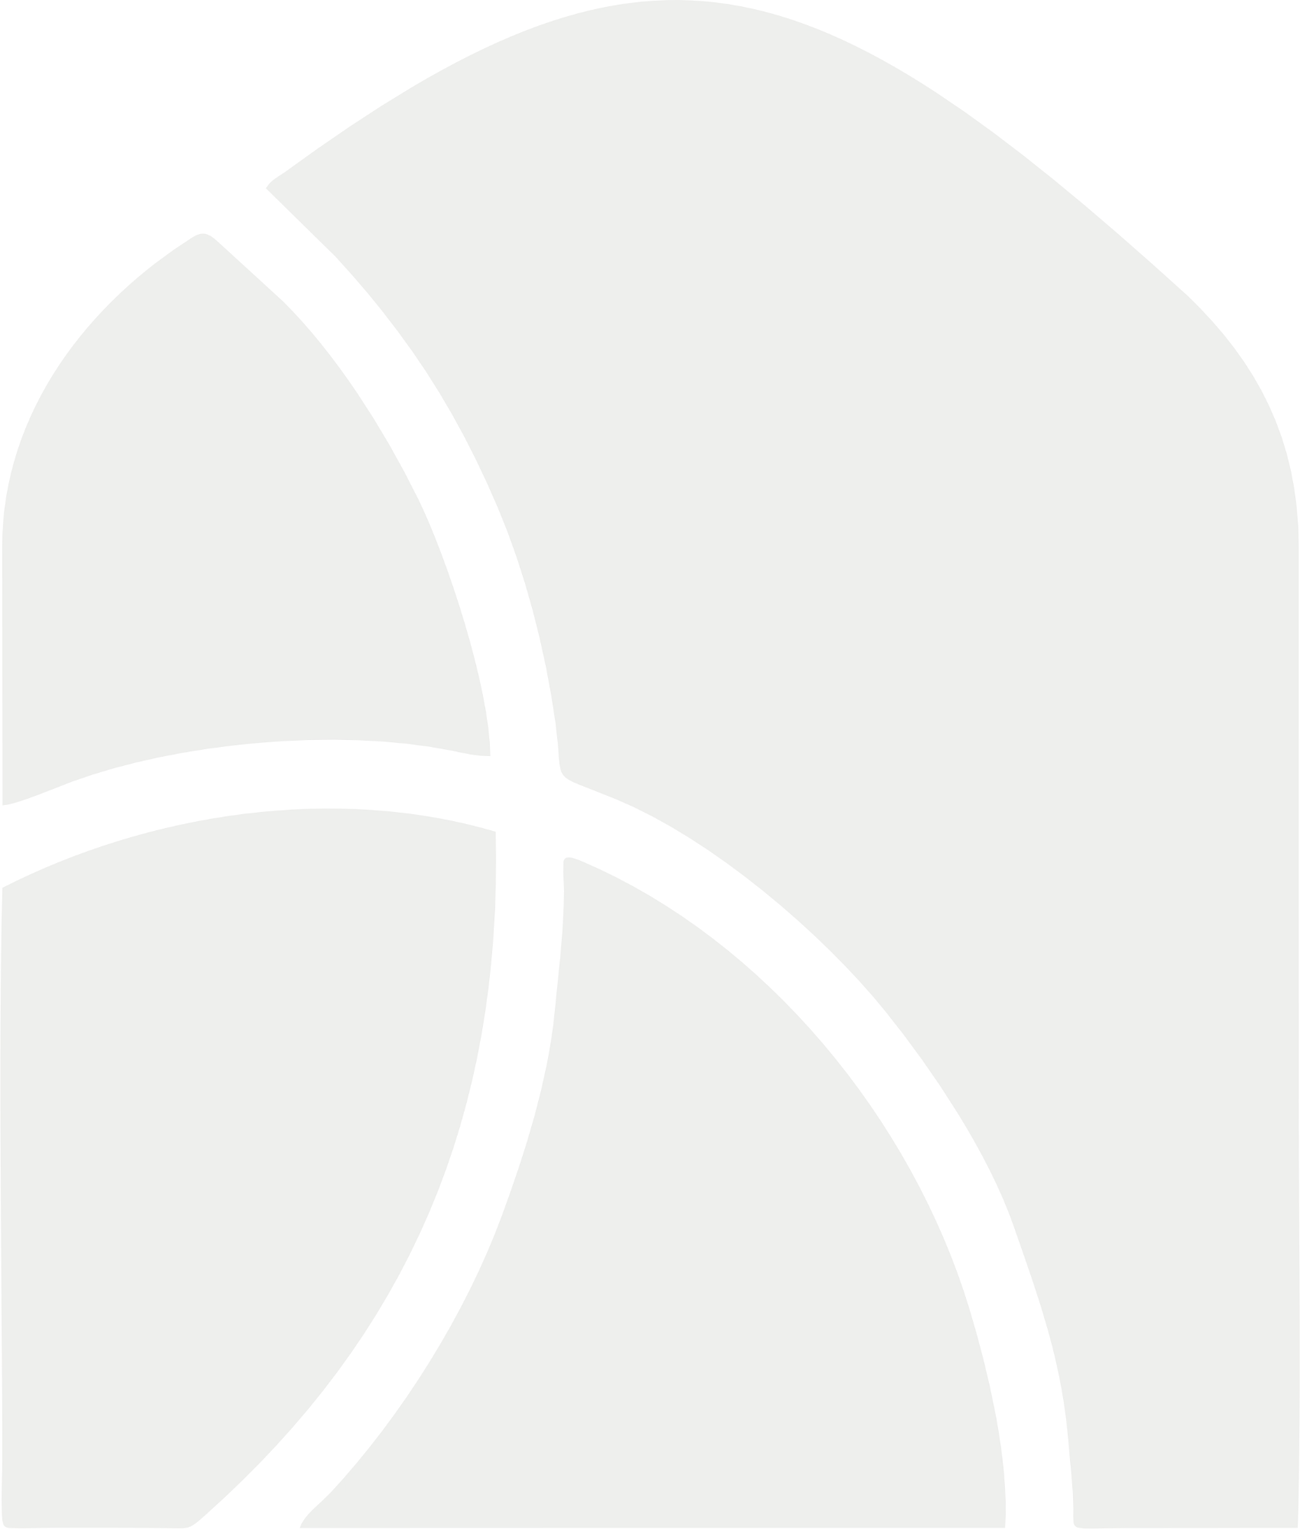
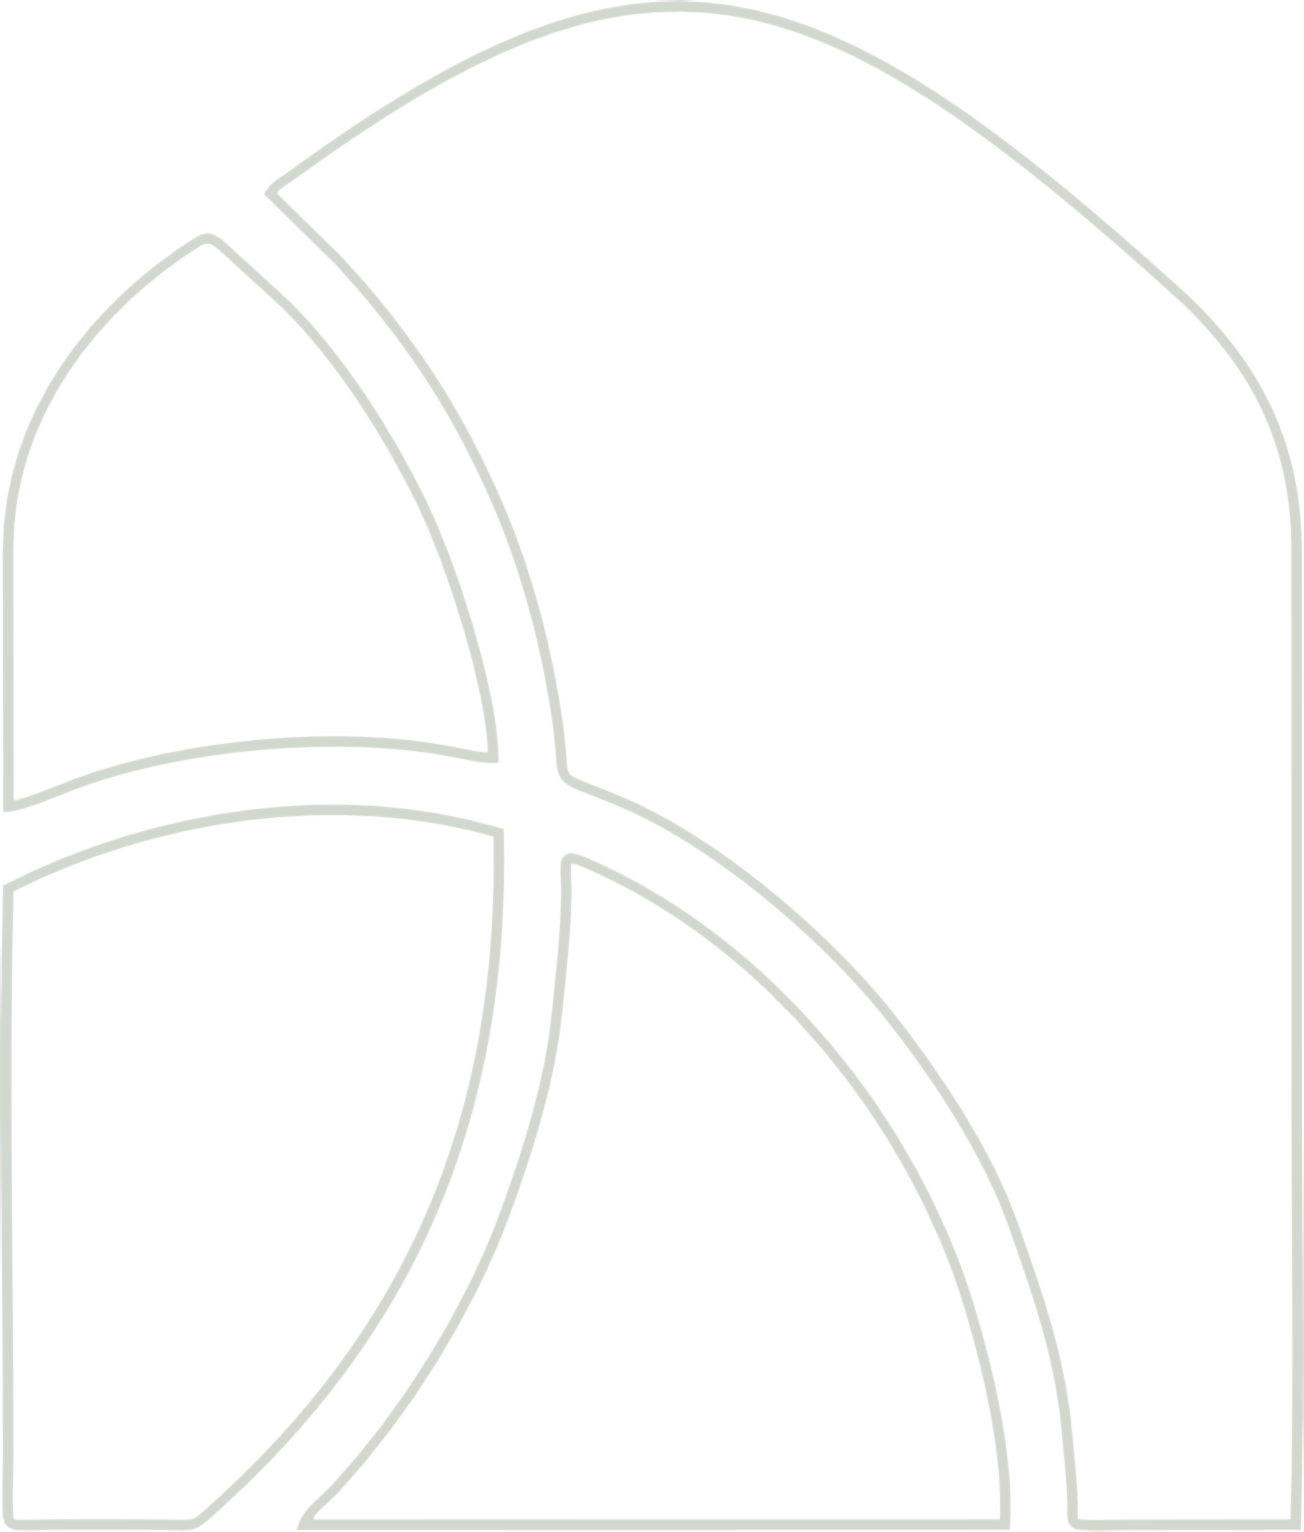
v.32: marca d'água com o isologo vazado (contorno fino e transparente)
Claude-Session: https://claude.ai/code/session_01QGTHKpdf8g3ZjVThXuW4Rz

diff --git a/js/app.js b/js/app.js
@@ -1,22 +1,22 @@
 // =====================================================================
 //  Aplicativo: login, menu lateral e rotas
 // =====================================================================
-import { iniciar, carregarTudo, entrar, sair, modoDemo, demoVazio, zerarDemo, store, tabelasFaltando } from './dados.js?v=202611221707';
-import { icone, h, aviso, diasAte } from './util.js?v=202611221707';
-import { nav } from './nav.js?v=202611221707';
-import { situacaoRecebimento } from './negocio.js?v=202611221707';
-import { VERSAO, DATA_VERSAO } from './versao.js?v=202611221707';
-import { abrirBackup, diasSemBackup } from './backup.js?v=202611221707';
-import { criarDadosExemplo } from './exemplo.js?v=202611221707';
+import { iniciar, carregarTudo, entrar, sair, modoDemo, demoVazio, zerarDemo, store, tabelasFaltando } from './dados.js?v=202611221710';
+import { icone, h, aviso, diasAte } from './util.js?v=202611221710';
+import { nav } from './nav.js?v=202611221710';
+import { situacaoRecebimento } from './negocio.js?v=202611221710';
+import { VERSAO, DATA_VERSAO } from './versao.js?v=202611221710';
+import { abrirBackup, diasSemBackup } from './backup.js?v=202611221710';
+import { criarDadosExemplo } from './exemplo.js?v=202611221710';
 
-import * as painel from './telas/painel.js?v=202611221707';
-import * as projetos from './telas/projetos.js?v=202611221707';
-import * as projeto from './telas/projeto.js?v=202611221707';
-import * as clientes from './telas/clientes.js?v=202611221707';
-import * as financeiro from './telas/financeiro.js?v=202611221707';
-import * as orcamentos from './telas/orcamentos.js?v=202611221707';
-import * as tarefas from './telas/tarefas.js?v=202611221707';
-import * as parceiros from './telas/parceiros.js?v=202611221707';
+import * as painel from './telas/painel.js?v=202611221710';
+import * as projetos from './telas/projetos.js?v=202611221710';
+import * as projeto from './telas/projeto.js?v=202611221710';
+import * as clientes from './telas/clientes.js?v=202611221710';
+import * as financeiro from './telas/financeiro.js?v=202611221710';
+import * as orcamentos from './telas/orcamentos.js?v=202611221710';
+import * as tarefas from './telas/tarefas.js?v=202611221710';
+import * as parceiros from './telas/parceiros.js?v=202611221710';
 
 const MENU = [
   ['painel', 'Painel', 'painel'],

diff --git a/js/telas/projeto.js b/js/telas/projeto.js
@@ -2,21 +2,21 @@
 //  PROJETO — etapas com checklist, financeiro, complementares,
 //  tarefas, arquivos e dados do projeto
 // =====================================================================
-import { store, porId, inserir, atualizar, remover } from '../dados.js?v=202611221707';
-import { h, icone, moeda, data, hoje, formModal, confirmar, aviso, tentar, diasAte } from '../util.js?v=202611221707';
-import { nav } from '../nav.js?v=202611221707';
-import { EQUIPE } from '../config.js?v=202611221707';
-import { CATEGORIAS, TIPOS, intervencoesDa, infoServico } from '../modelos.js?v=202611221707';
+import { store, porId, inserir, atualizar, remover } from '../dados.js?v=202611221710';
+import { h, icone, moeda, data, hoje, formModal, confirmar, aviso, tentar, diasAte } from '../util.js?v=202611221710';
+import { nav } from '../nav.js?v=202611221710';
+import { EQUIPE } from '../config.js?v=202611221710';
+import { CATEGORIAS, TIPOS, intervencoesDa, infoServico } from '../modelos.js?v=202611221710';
 import {
   nomeCliente, descricaoTipo, etapasDo, itensDa, progressoEtapa, progressoProjeto, faseAtual,
   recebimentosDo, concluirEtapa, reabrirEtapa, situacaoRecebimento, esperaComplementares, nomeParceiro, complAtrasado, STATUS_COMPL, pendenciasAbertas,
-} from '../negocio.js?v=202611221707';
+} from '../negocio.js?v=202611221710';
 import {
   tagPrazo, formRecebimento, tagRecebimento, marcarRecebido, formComplementar, linhaComplementar,
   ligarLinhasComplementares, formComplementaresContratados, formServicosContratados, formServico, formRegistroServico, STATUS_SERV, formPendencia, linhaPendencia, ligarPendencias, formTarefa, avatar, blocoAnexos, ligarBlocoAnexos, opcoesClientes, opcoesEquipe, responsaveisDe, familiaDe, idadeAtual,
-} from '../componentes.js?v=202611221707';
-import { botaoRecibo, ligarRecibos } from '../recibo.js?v=202611221707';
-import { STATUS_PROJ } from './projetos.js?v=202611221707';
+} from '../componentes.js?v=202611221710';
+import { botaoRecibo, ligarRecibos } from '../recibo.js?v=202611221710';
+import { STATUS_PROJ } from './projetos.js?v=202611221710';
 
 const estado = { projeto: null, aba: 'etapas', etapa: null };
 const ST_ITEM = { pendente: 'Pendente', andamento: 'Em andamento', concluido: 'Concluído', na: 'Não se aplica' };

diff --git a/js/componentes.js b/js/componentes.js
@@ -1,13 +1,13 @@
 // =====================================================================
 //  Componentes compartilhados entre telas: formulários e anexos
 // =====================================================================
-import { store, inserir, atualizar, remover, porId, enviarArquivo, urlArquivo, apagarArquivo, uid } from './dados.js?v=202611221707';
-import { h, icone, formModal, abrirModal, confirmar, aviso, tentar, data, tamanhoArquivo, moeda, prazoTexto, hoje, somarDias } from './util.js?v=202611221707';
-import { EQUIPE } from './config.js?v=202611221707';
-import { abrirRecibo } from './recibo.js?v=202611221707';
-import { opcoesDisciplina, COMPLEMENTARES_PRINCIPAIS, DISCIPLINAS, SERVICOS_ADICIONAIS, infoServico } from './modelos.js?v=202611221707';
-import { nav } from './nav.js?v=202611221707';
-import { STATUS_COMPL, complAtrasado, nomeParceiro, situacaoRecebimento, etapasDo, contaParceiro, pagamentoCompl, TIPOS_PENDENCIA, pendenciasAbertas, faseAtual } from './negocio.js?v=202611221707';
+import { store, inserir, atualizar, remover, porId, enviarArquivo, urlArquivo, apagarArquivo, uid } from './dados.js?v=202611221710';
+import { h, icone, formModal, abrirModal, confirmar, aviso, tentar, data, tamanhoArquivo, moeda, prazoTexto, hoje, somarDias } from './util.js?v=202611221710';
+import { EQUIPE } from './config.js?v=202611221710';
+import { abrirRecibo } from './recibo.js?v=202611221710';
+import { opcoesDisciplina, COMPLEMENTARES_PRINCIPAIS, DISCIPLINAS, SERVICOS_ADICIONAIS, infoServico } from './modelos.js?v=202611221710';
+import { nav } from './nav.js?v=202611221710';
+import { STATUS_COMPL, complAtrasado, nomeParceiro, situacaoRecebimento, etapasDo, contaParceiro, pagamentoCompl, TIPOS_PENDENCIA, pendenciasAbertas, faseAtual } from './negocio.js?v=202611221710';
 
 export const opcoesEquipe = () => EQUIPE.map(n => [n, n]);
 export const opcoesClientes = () => [...store.clientes].sort((a, b) => a.nome.localeCompare(b.nome)).map(c => [c.id, c.nome]);

diff --git a/js/telas/projetos.js b/js/telas/projetos.js
@@ -1,12 +1,12 @@
 // =====================================================================
 //  PROJETOS — quadro por fase (estilo Trello), lista e novo projeto
 // =====================================================================
-import { store, atualizar } from '../dados.js?v=202611221707';
-import { h, icone, moeda, data, hoje, somarDias, abrirModal, aviso, campoHTML } from '../util.js?v=202611221707';
-import { nav } from '../nav.js?v=202611221707';
-import { CATEGORIAS, TIPOS, INTERVENCOES, TIPOS_COM_INTERVENCAO, FASES, montarModelo, pagamentosPadrao, intervencoesDa, infoServico } from '../modelos.js?v=202611221707';
-import { nomeCliente, descricaoTipo, faseAtual, progressoProjeto, colunaDoQuadro, criarProjeto, etapasDo, aguardandoParceiros, pendenciasAbertas, saudeProjeto, NOMES_SAUDE } from '../negocio.js?v=202611221707';
-import { formCliente, opcoesClientes, tagPrazo, chipsComplementares, registrarComplementares, chipsServicos, registrarServicos } from '../componentes.js?v=202611221707';
+import { store, atualizar } from '../dados.js?v=202611221710';
+import { h, icone, moeda, data, hoje, somarDias, abrirModal, aviso, campoHTML } from '../util.js?v=202611221710';
+import { nav } from '../nav.js?v=202611221710';
+import { CATEGORIAS, TIPOS, INTERVENCOES, TIPOS_COM_INTERVENCAO, FASES, montarModelo, pagamentosPadrao, intervencoesDa, infoServico } from '../modelos.js?v=202611221710';
+import { nomeCliente, descricaoTipo, faseAtual, progressoProjeto, colunaDoQuadro, criarProjeto, etapasDo, aguardandoParceiros, pendenciasAbertas, saudeProjeto, NOMES_SAUDE } from '../negocio.js?v=202611221710';
+import { formCliente, opcoesClientes, tagPrazo, chipsComplementares, registrarComplementares, chipsServicos, registrarServicos } from '../componentes.js?v=202611221710';
 
 const STATUS_PROJ = { ativo: 'Em andamento', pausado: 'Pausado', concluido: 'Concluído', cancelado: 'Cancelado' };
 export { STATUS_PROJ };

diff --git a/js/telas/painel.js b/js/telas/painel.js
@@ -1,13 +1,13 @@
 // =====================================================================
 //  PAINEL — visão geral do escritório
 // =====================================================================
-import { store, porId } from '../dados.js?v=202611221707';
-import { h, icone, moeda, diasAte, hoje, prazoTexto, tentar } from '../util.js?v=202611221707';
-import { nav } from '../nav.js?v=202611221707';
-import { ESCRITORIO } from '../config.js?v=202611221707';
-import { nomeCliente, faseAtual, progressoProjeto, situacaoRecebimento, complAtrasado, nomeParceiro, aguardandoParceiros, pendenciasAbertas, saudeProjeto } from '../negocio.js?v=202611221707';
-import { tagPrazo, tagRecebimento, marcarRecebido, linhaPendencia, ligarPendencias } from '../componentes.js?v=202611221707';
-import { novoProjeto } from './projetos.js?v=202611221707';
+import { store, porId } from '../dados.js?v=202611221710';
+import { h, icone, moeda, diasAte, hoje, prazoTexto, tentar } from '../util.js?v=202611221710';
+import { nav } from '../nav.js?v=202611221710';
+import { ESCRITORIO } from '../config.js?v=202611221710';
+import { nomeCliente, faseAtual, progressoProjeto, situacaoRecebimento, complAtrasado, nomeParceiro, aguardandoParceiros, pendenciasAbertas, saudeProjeto } from '../negocio.js?v=202611221710';
+import { tagPrazo, tagRecebimento, marcarRecebido, linhaPendencia, ligarPendencias } from '../componentes.js?v=202611221710';
+import { novoProjeto } from './projetos.js?v=202611221710';
 
 function saudacao() {
   const hr = new Date().getHours();

diff --git a/js/telas/orcamentos.js b/js/telas/orcamentos.js
@@ -1,13 +1,13 @@
 // =====================================================================
 //  ORÇAMENTOS / PROPOSTAS — controle e impressão com a identidade visual
 // =====================================================================
-import { store, porId, inserir, atualizar, remover } from '../dados.js?v=202611221707';
-import { h, icone, moeda, data, hoje, somarDias, formModal, confirmar, aviso, tentar } from '../util.js?v=202611221707';
-import { nav } from '../nav.js?v=202611221707';
-import { ESCRITORIO } from '../config.js?v=202611221707';
-import { CATEGORIAS, TIPOS, INTERVENCOES } from '../modelos.js?v=202611221707';
-import { opcoesClientes } from '../componentes.js?v=202611221707';
-import { novoProjeto } from './projetos.js?v=202611221707';
+import { store, porId, inserir, atualizar, remover } from '../dados.js?v=202611221710';
+import { h, icone, moeda, data, hoje, somarDias, formModal, confirmar, aviso, tentar } from '../util.js?v=202611221710';
+import { nav } from '../nav.js?v=202611221710';
+import { ESCRITORIO } from '../config.js?v=202611221710';
+import { CATEGORIAS, TIPOS, INTERVENCOES } from '../modelos.js?v=202611221710';
+import { opcoesClientes } from '../componentes.js?v=202611221710';
+import { novoProjeto } from './projetos.js?v=202611221710';
 
 const STATUS = { rascunho: 'Rascunho', enviado: 'Enviado', aprovado: 'Aprovado', recusado: 'Recusado' };
 const COR = { rascunho: 'neutro', enviado: 'areia', aprovado: 'ok', recusado: 'perigo' };

diff --git a/js/telas/financeiro.js b/js/telas/financeiro.js
@@ -2,12 +2,12 @@
 //  FINANCEIRO — resumo do mês (receitas, despesas e resultado),
 //  a receber, recebidos, parceiros e visão do ano
 // =====================================================================
-import { store, porId, atualizar } from '../dados.js?v=202611221707';
-import { h, icone, moeda, data, hoje, tentar, aviso } from '../util.js?v=202611221707';
-import { botaoRecibo, ligarRecibos, formConfigRecibo } from '../recibo.js?v=202611221707';
-import { nav } from '../nav.js?v=202611221707';
-import { nomeCliente, situacaoRecebimento, dataReferencia, nomeParceiro, contaParceiro } from '../negocio.js?v=202611221707';
-import { tagRecebimento, marcarRecebido, formRecebimento, formPagamentoParceiro, extratoPagamentos, ligarExtrato, formDespesa } from '../componentes.js?v=202611221707';
+import { store, porId, atualizar } from '../dados.js?v=202611221710';
+import { h, icone, moeda, data, hoje, tentar, aviso } from '../util.js?v=202611221710';
+import { botaoRecibo, ligarRecibos, formConfigRecibo } from '../recibo.js?v=202611221710';
+import { nav } from '../nav.js?v=202611221710';
+import { nomeCliente, situacaoRecebimento, dataReferencia, nomeParceiro, contaParceiro } from '../negocio.js?v=202611221710';
+import { tagRecebimento, marcarRecebido, formRecebimento, formPagamentoParceiro, extratoPagamentos, ligarExtrato, formDespesa } from '../componentes.js?v=202611221710';
 
 let aba = 'mes';
 let mesSel = hoje().slice(0, 7);

diff --git a/js/telas/clientes.js b/js/telas/clientes.js
@@ -1,12 +1,12 @@
 // =====================================================================
 //  CLIENTES — lista e ficha do cliente
 // =====================================================================
-import { store, porId, remover } from '../dados.js?v=202611221707';
-import { h, icone, moeda, data, confirmar, tentar } from '../util.js?v=202611221707';
-import { nav } from '../nav.js?v=202611221707';
-import { recebimentosDo } from '../negocio.js?v=202611221707';
-import { formCliente, ehPJ, responsaveisDe, familiaDe, idadeAtual } from '../componentes.js?v=202611221707';
-import { cartaoProjeto, ligarCartoes, novoProjeto } from './projetos.js?v=202611221707';
+import { store, porId, remover } from '../dados.js?v=202611221710';
+import { h, icone, moeda, data, confirmar, tentar } from '../util.js?v=202611221710';
+import { nav } from '../nav.js?v=202611221710';
+import { recebimentosDo } from '../negocio.js?v=202611221710';
+import { formCliente, ehPJ, responsaveisDe, familiaDe, idadeAtual } from '../componentes.js?v=202611221710';
+import { cartaoProjeto, ligarCartoes, novoProjeto } from './projetos.js?v=202611221710';
 
 let busca = '';
 

diff --git a/js/telas/parceiros.js b/js/telas/parceiros.js
@@ -3,14 +3,14 @@
 //  Conta corrente: o que cada parceiro cobrou nos complementares,
 //  menos os pagamentos lançados (independentes de projeto).
 // =====================================================================
-import { store, porId, remover } from '../dados.js?v=202611221707';
-import { h, icone, moeda, confirmar, tentar } from '../util.js?v=202611221707';
-import { nav } from '../nav.js?v=202611221707';
-import { complAtrasado, contaParceiro, pagamentoCompl } from '../negocio.js?v=202611221707';
+import { store, porId, remover } from '../dados.js?v=202611221710';
+import { h, icone, moeda, confirmar, tentar } from '../util.js?v=202611221710';
+import { nav } from '../nav.js?v=202611221710';
+import { complAtrasado, contaParceiro, pagamentoCompl } from '../negocio.js?v=202611221710';
 import {
   formParceiro, formComplementar, linhaComplementar, ligarLinhasComplementares, iniciais,
   formPagamentoParceiro, extratoPagamentos, ligarExtrato,
-} from '../componentes.js?v=202611221707';
+} from '../componentes.js?v=202611221710';
 
 let filtroSit = 'abertos';
 

diff --git a/js/telas/tarefas.js b/js/telas/tarefas.js
@@ -2,11 +2,11 @@
 //  TAREFAS DA EQUIPE — quadro (A fazer / Fazendo / Feito)
 //  Arraste os cartões entre as colunas.
 // =====================================================================
-import { store, porId, atualizar } from '../dados.js?v=202611221707';
-import { h, icone, tentar, diasAte } from '../util.js?v=202611221707';
-import { nav } from '../nav.js?v=202611221707';
-import { EQUIPE } from '../config.js?v=202611221707';
-import { formTarefa, avatar, tagPrazo, rotuloProjeto } from '../componentes.js?v=202611221707';
+import { store, porId, atualizar } from '../dados.js?v=202611221710';
+import { h, icone, tentar, diasAte } from '../util.js?v=202611221710';
+import { nav } from '../nav.js?v=202611221710';
+import { EQUIPE } from '../config.js?v=202611221710';
+import { formTarefa, avatar, tagPrazo, rotuloProjeto } from '../componentes.js?v=202611221710';
 
 const COLUNAS = [['afazer', 'A fazer'], ['fazendo', 'Fazendo'], ['feito', 'Feito']];
 let pessoa = '';

diff --git a/js/negocio.js b/js/negocio.js
@@ -2,9 +2,9 @@
 //  Regras do escritório: criação de projeto, fases, progresso,
 //  situação dos recebimentos e dos complementares.
 // =====================================================================
-import { store, inserir, atualizar, porId, enviarArquivo } from './dados.js?v=202611221707';
-import { itensDoGrupo, CATEGORIAS, TIPOS, INTERVENCOES, FASE_DA_CHAVE } from './modelos.js?v=202611221707';
-import { hoje, diasAte } from './util.js?v=202611221707';
+import { store, inserir, atualizar, porId, enviarArquivo } from './dados.js?v=202611221710';
+import { itensDoGrupo, CATEGORIAS, TIPOS, INTERVENCOES, FASE_DA_CHAVE } from './modelos.js?v=202611221710';
+import { hoje, diasAte } from './util.js?v=202611221710';
 
 export const nomeCliente = (id) => porId('clientes', id)?.nome || 'Sem cliente';
 export const nomeParceiro = (id) => porId('parceiros', id)?.nome || 'A definir';

diff --git a/js/recibo.js b/js/recibo.js
@@ -5,9 +5,9 @@
 //  Os dados pessoais (nome, CAU, CPF, PIX) ficam no banco (tabela
 //  config), e não no código, porque o site é público.
 // =====================================================================
-import { store, porId, inserir, atualizar } from './dados.js?v=202611221707';
-import { h, moeda, hoje, formModal, aviso, icone } from './util.js?v=202611221707';
-import { CATEGORIAS } from './modelos.js?v=202611221707';
+import { store, porId, inserir, atualizar } from './dados.js?v=202611221710';
+import { h, moeda, hoje, formModal, aviso, icone } from './util.js?v=202611221710';
+import { CATEGORIAS } from './modelos.js?v=202611221710';
 
 // ---------------------------------------------------------------- dados do escritório
 export const configEscritorio = () => store.config.find(c => c.id === 'escritorio')?.dados || null;
